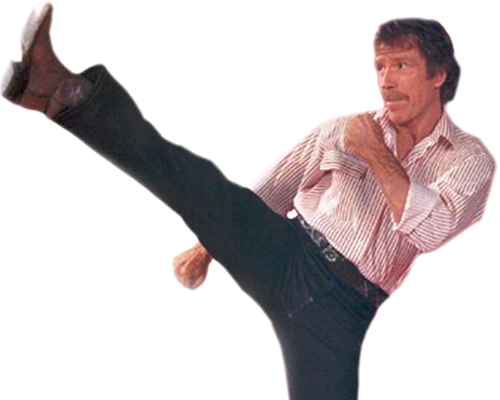
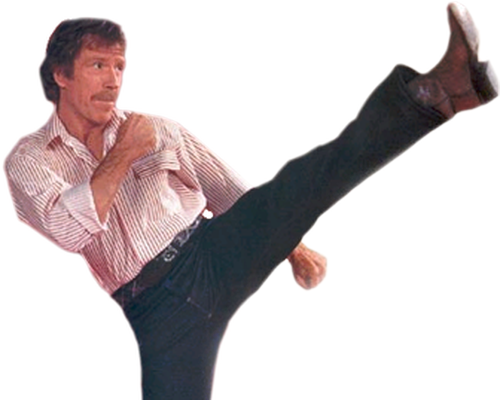
flip chuck's image horizontally and add kick image to main section

diff --git a/index.html b/index.html
@@ -45,6 +45,7 @@
 				</div>
 				<div class="col-md-7">
 					<section class="main-section">
+						<img src="assets/images/kick.png" class="img-main img-responsive" />
 						<p><span class="strong red">Don't be fooled;</span> Chuck Norris, our country's greatest hero, is most certainly  lurking around here somewhere. Just because you can't see him doesn't mean he isn't there.</p>
 						<p>It's a well known fact that Chuck likes to kick stuff, but what you might <em>not</em> know is that Chuck absolutely hates it when he comes up with a random word and people can't guess all the letters in the word. It makes him mad. Real mad. So mad, in fact, that when someone guesses a wrong letter enough times, he kicks that someone in the face. You don't want that to happen to you.</p>
 						<p>Chuck has come up with a word that has to do with... well, Chuck. <span class="strong red">Use the keyboard (letter keys only!)</span> to guess the letters in the  word, but beware: every time you guess incorrectly, Chuck comes a little bit more out of hiding, and if you guess wrong <span id="maxTries" class="strong red"></span>, he will fully reveal himself and <span class="strong red">kick you in the face</span>.</p>

diff --git a/assets/css/style.css b/assets/css/style.css
@@ -54,10 +54,15 @@ h3 {
 
 .main-section {
 	margin-bottom: 30px;
-	background-color: #ccc;
+	background-color: #fff;
 	border: 1px solid #666;
 	border-radius: 5px;
 	padding: 20px;
+}
+
+.img-main {
+	float: right;
+	padding: 0 0 15px 15px;
 }
 
 .header {
@@ -241,4 +246,11 @@ footer a:focus {
 
 footer a:hover{
 	color: #be1c1c;
+}
+
+@media screen and (max-width: 480px) {
+	.img-main {
+		float: none;
+		margin: 0 auto;
+	}
 }
